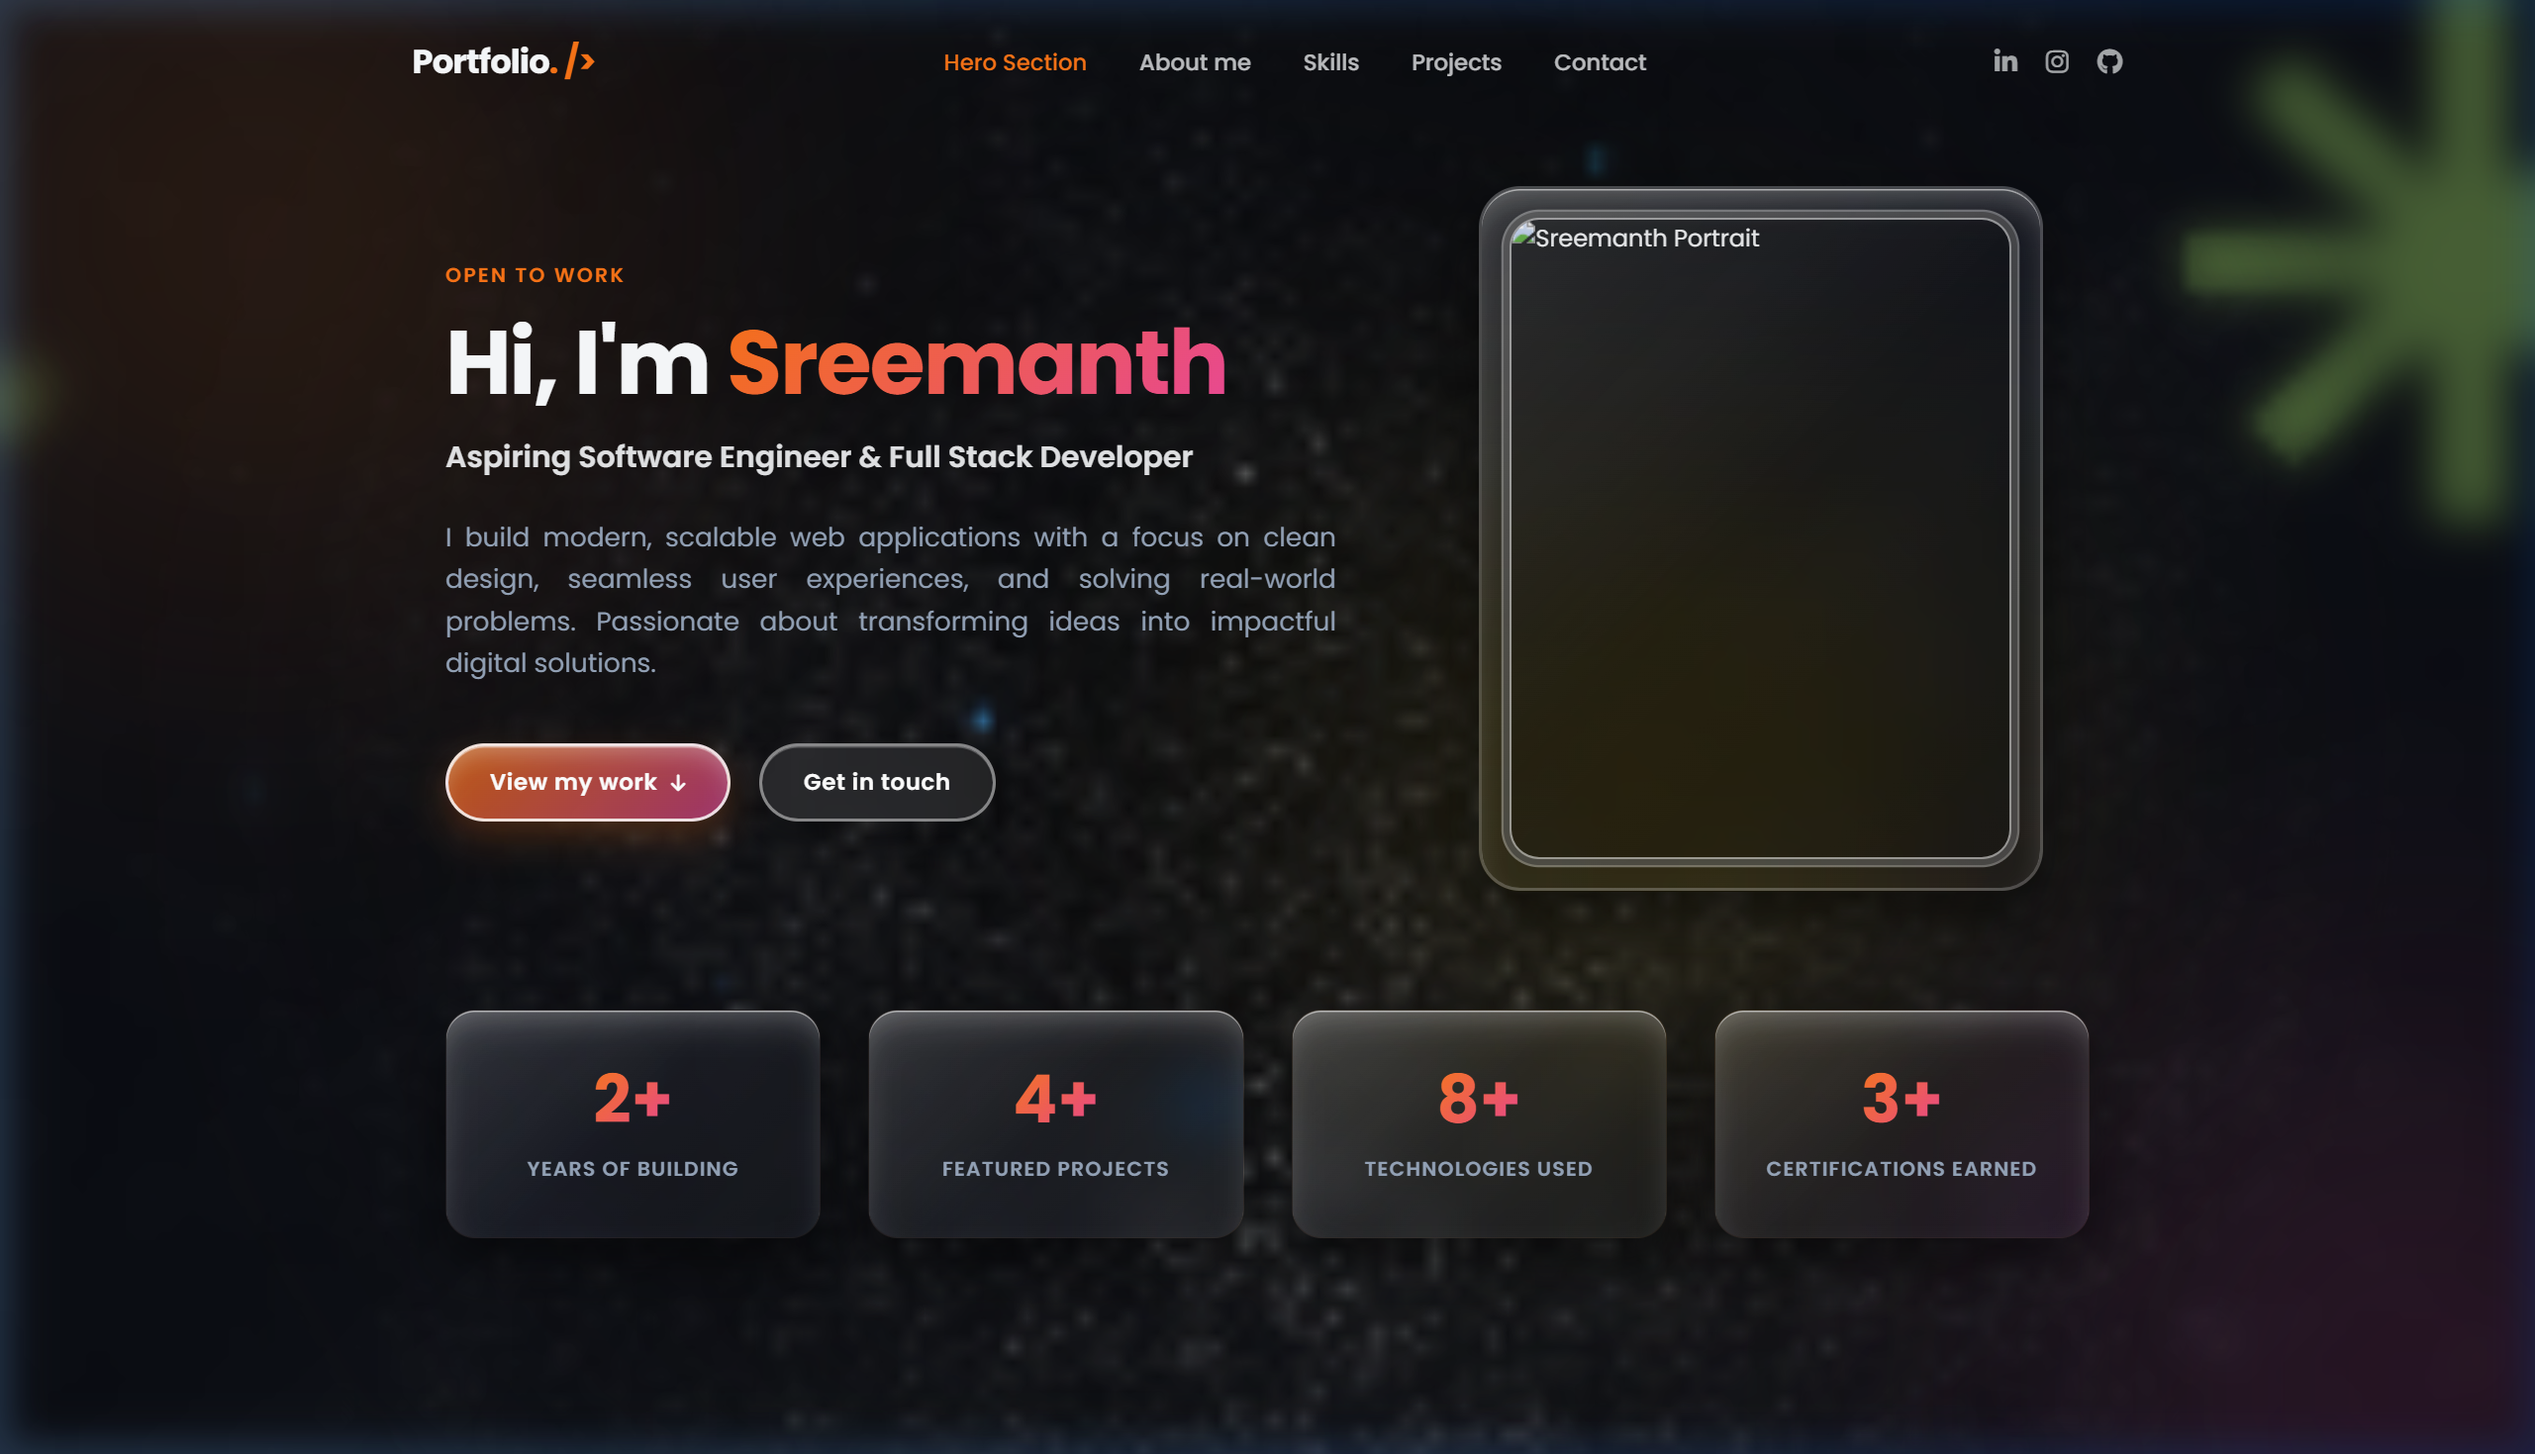
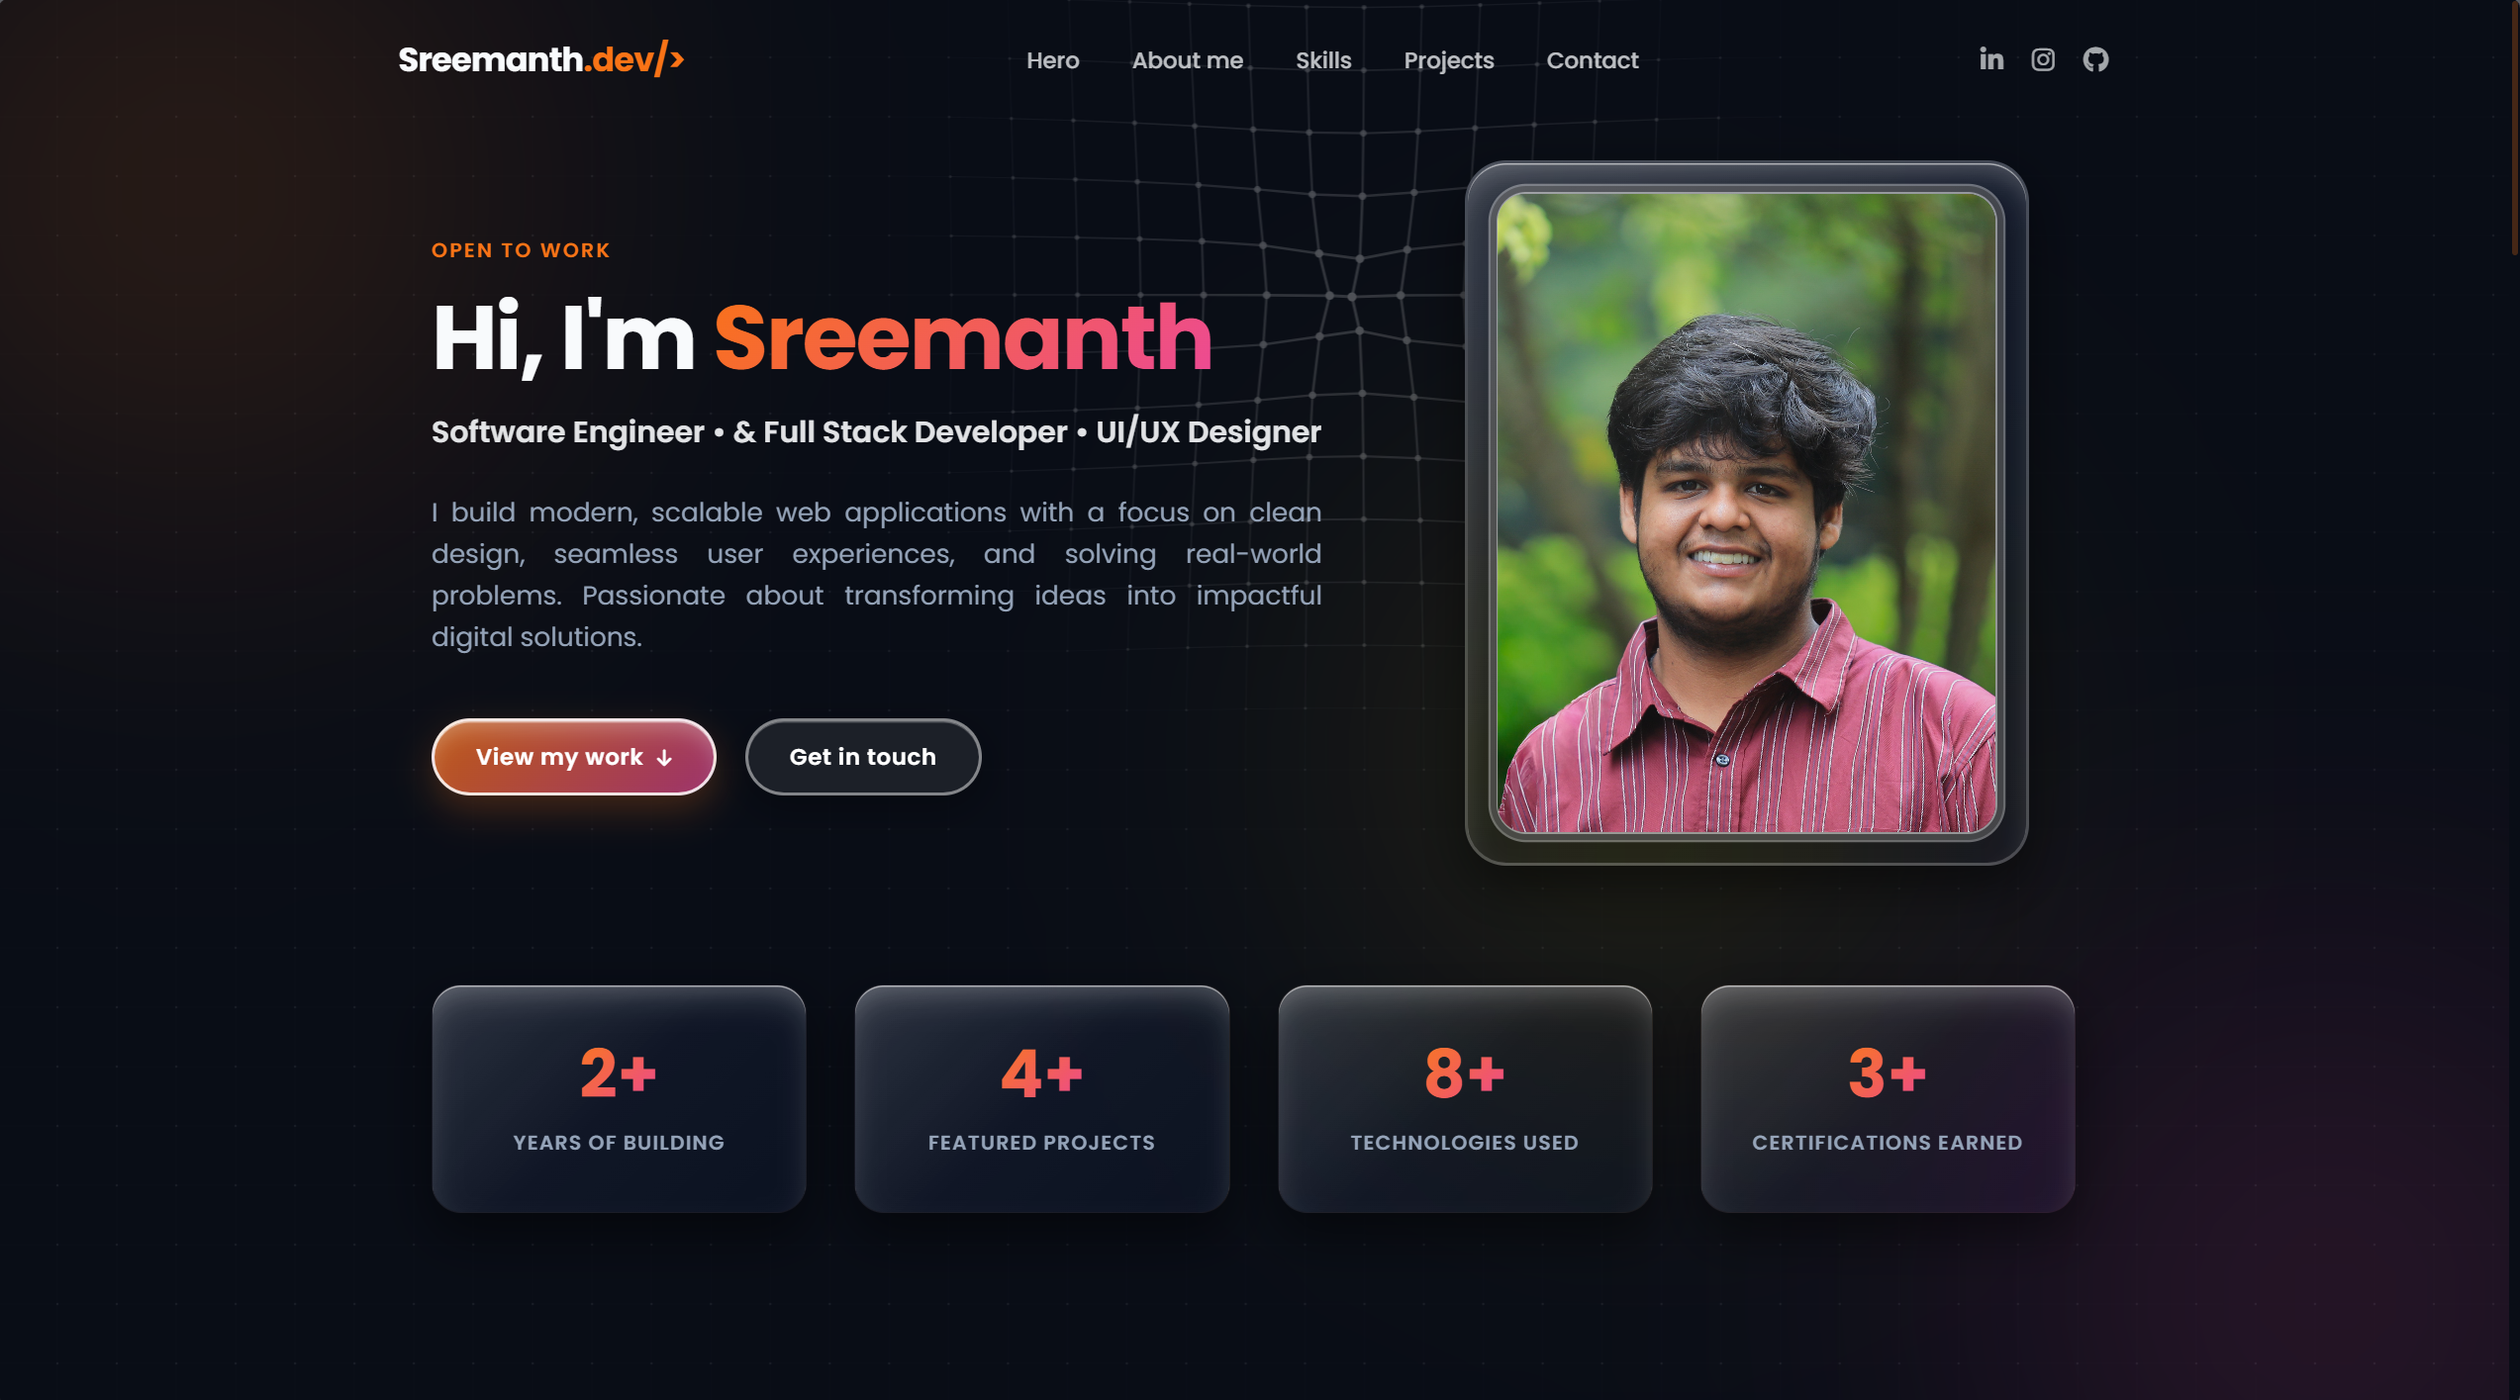
Update portfolio website

diff --git a/protfolio.html b/protfolio.html
@@ -5,6 +5,8 @@
     <meta charset="UTF-8">
     <meta name="viewport" content="width=device-width, initial-scale=1.0">
     <title>Sreemanth | Portfolio</title>
+    <!-- Favicon -->
+    <link rel="icon" type="image/png" sizes="32x32" href="portfolio_logo.png">
     <!-- Poppins Font with multiple weights -->
     <link href="https://fonts.googleapis.com/css2?family=Poppins:wght@300;400;500;600;700&display=swap"
         rel="stylesheet">
@@ -320,6 +322,9 @@
         }
 
         .logo {
+            display: flex;
+            align-items: center;
+            gap: 8px;
             font-size: 1.4rem;
             font-weight: 700;
             z-index: 1001;
@@ -327,8 +332,26 @@
             color: var(--text-dark);
         }
 
-        .logo span {
-            color: var(--primary-color);
+        .logo-text {
+            color: var(--text-dark);
+            display: inline-block;
+        }
+
+        .logo-accent {
+            color: var(--primary-color) !important;
+        }
+
+        .nav-logo-img {
+            height: 32px;
+            width: auto;
+            object-fit: contain;
+            display: inline-block;
+            vertical-align: middle;
+            transition: transform 0.3s cubic-bezier(0.4, 0, 0.2, 1);
+        }
+
+        .logo:hover .nav-logo-img {
+            transform: scale(1.08) rotate(3deg);
         }
 
         /* Desktop Menu Links */
@@ -1796,7 +1819,9 @@
     <!-- Glassmorphic Navigation Bar -->
     <header id="header">
         <div class="nav-container">
-            <a href="#hero" class="logo">Sreemanth<span>.dev/></span></a>
+            <a href="#hero" class="logo">
+                <span class="logo-text">Sreemanth<span class="logo-accent">.dev/></span></span>
+            </a>
 
             <input type="checkbox" id="nav-toggle" class="nav-toggle">
 
